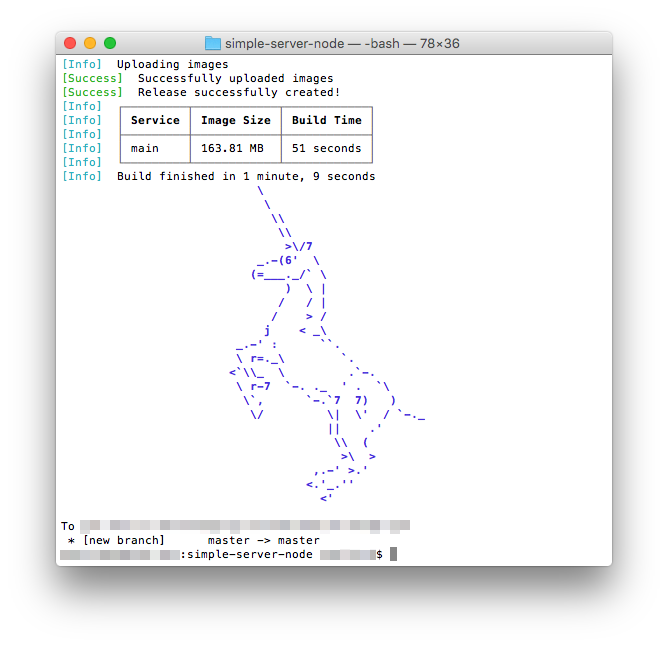
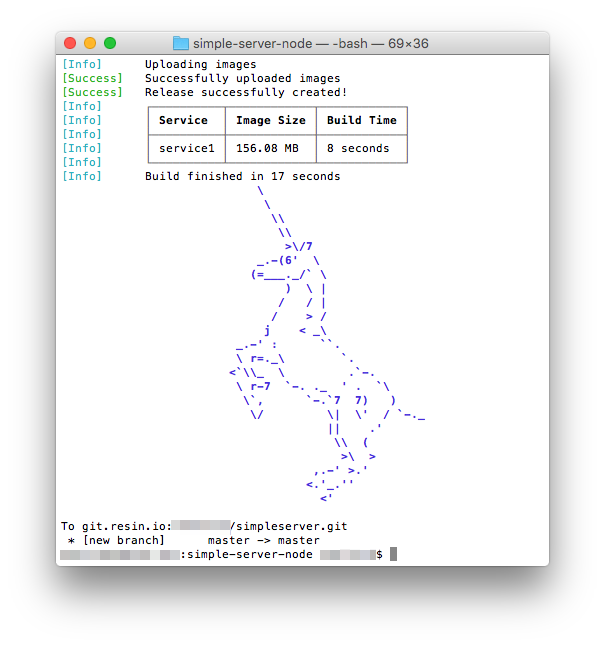
Update default service name
Change from main to service1

Change-type: patch

diff --git a/pages/learn/deploy/deployment.md b/pages/learn/deploy/deployment.md
@@ -25,7 +25,7 @@ Alternatively, if your project includes a package.json (i.e. a Node.js project),
 
 A Dockerfile will always give you more power to fine-tune the build process, but it’s also good to start fast without one, since you can shift to a Dockerfile whenever you like. We will soon add more languages to the “first-class” support we give to Node.js. Until then, any other language can be used by adding a Dockerfile. It’s important to note that the environment within which your code gets built will match the devices you use for your app. So if you’re for example pushing to an app containing BeagleBone Black devices, we’ll build your code in an ARMv7 environment, while for the Raspberry Pi B+ it would be ARMv6.
 
-If you push a project with only a `Dockerfile`, `Dockerfile.template`, or `package.json`, a single container image will be built and sent to your device. The single container will show up on the device dashboard as a service with the name `main`. 
+If you push a project with only a `Dockerfile`, `Dockerfile.template`, or `package.json`, a single container image will be built and sent to your device. The single container will show up on the device dashboard as a service with the name `service1`. 
 
 For [multicontainer][multicontainer] applications (Microservices and Starter [application types][app-types]), a `docker-compose.yml` file at the root of the project directory will kick off multiple simultaneous image builds, each with their own [build logs][logs].
 

diff --git a/pages/learn/develop/dockerfile.md b/pages/learn/develop/dockerfile.md
@@ -39,7 +39,7 @@ networks: {}
 volumes:
   resin-data: {}
 services:
-  main:
+  service1:
     build:
       context: .
     privileged: true
